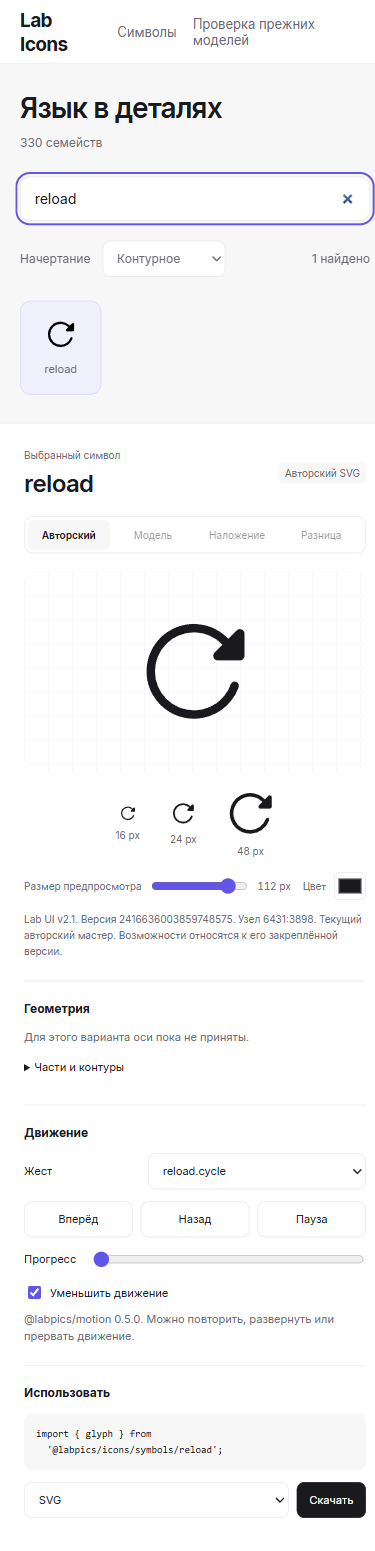
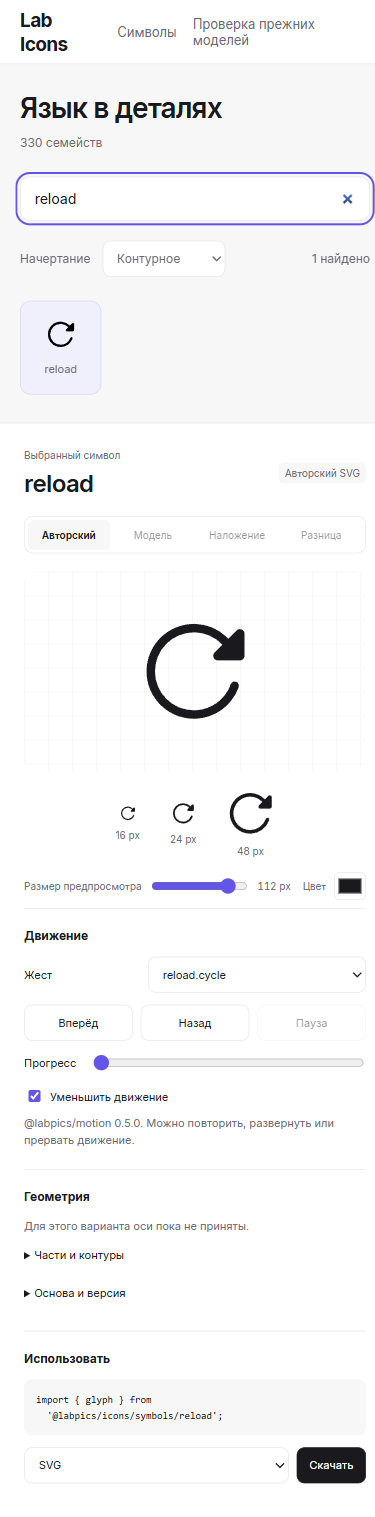
feat(observatory): исполнять typing и loading из авторских частей

diff --git a/observatory/explorer.js b/observatory/explorer.js
@@ -18,6 +18,11 @@ function displayStyle() {
 const $ = (selector) => document.querySelector(selector);
 const ui = Object.fromEntries(['symbol-search', 'variant', 'symbol-grid', 'more-symbols', 'empty-search', 'corpus-count', 'visible-count', 'symbol-inspector', 'symbol-name', 'model-status', 'symbol-stage', 'size-samples', 'source-status', 'axis-controls', 'axis-status', 'parts', 'gesture', 'play', 'reverse', 'pause', 'progress', 'reduce-motion', 'motion-status', 'consumer-import', 'export-format', 'export', 'export-status'].map((id) => [id, $(`#${id}`)]));
 const reducedPreference = matchMedia('(prefers-reduced-motion: reduce)');
+const loadStatus = document.querySelector('#load-status');
+function loadMessage(message = '') {
+  loadStatus.textContent = message;
+  loadStatus.hidden = !message;
+}
 const state = { data: null, name: 'time', variant: 'outline', view: 'original', viewLoading: false, limit: 48, revision: 0, viewRevision: 0, motionRevision: 0, pendingMotion: null, loaded: false, legacy: false, modelModule: null, abort: null, module: null, capabilities: null, glyph: null, axes: {}, original: '', effect: null, animations: [], frame: null, playhead: null };
 
 function progress() {
@@ -143,11 +148,13 @@ async function renderView(view = state.view) {
   const row = selectedRow();
   if (!viewAvailable(view, row)) {
     ui['source-status'].textContent = view === 'generated' ? 'Для прежней основы нет принятой модели. Кандидат доступен только для сравнения.' : 'Для этого варианта нет изображения сравнения.';
+    loadMessage(ui['source-status'].textContent);
     return;
   }
   const viewRevision = ++state.viewRevision;
   stop();
   state.viewLoading = true;
+  loadMessage();
   inspectorBusy(true);
   updateMotionControls();
   try {
@@ -205,6 +212,7 @@ async function renderView(view = state.view) {
     updateViewControls();
     updateMotionControls();
     ui['source-status'].textContent = error.message;
+    loadMessage(error.message);
   }
 }
 
@@ -272,6 +280,7 @@ async function select(name, { reveal = false } = {}) {
   ui['symbol-name'].textContent = name;
   ui['symbol-stage'].setAttribute('aria-label', `Символ ${name}: ${state.variant === 'filled' ? 'заливка' : 'контурное начертание'}`);
   ui['export-status'].textContent = '';
+  loadMessage();
   ui.progress.value = '0';
   clearInspector('Загрузка…');
   inspectorBusy(true);
@@ -306,6 +315,7 @@ async function select(name, { reveal = false } = {}) {
     inspectorBusy(false);
     ui['symbol-stage'].textContent = 'Не удалось загрузить символ.';
     ui['source-status'].textContent = error.message;
+    loadMessage(error.message);
   }
 }
 
@@ -318,7 +328,7 @@ async function advance(to, { repeatCycle = false } = {}) {
   const revision = state.revision;
   const viewRevision = state.viewRevision;
   const motionRevision = ++state.motionRevision;
-  const pending = { paused: false };
+  const pending = { paused: false, to };
   state.pendingMotion = pending;
   updateMotionControls();
   // Новый полный оборот — отдельное намерение пользователя. Ретаргет
@@ -367,6 +377,7 @@ displaySize.addEventListener('input', displayStyle);
 displayColor.addEventListener('input', displayStyle);
 ui.variant.addEventListener('change', () => select(state.name));
 ui['more-symbols'].addEventListener('click', () => { state.limit += 48; grid(); });
+ui.gesture.addEventListener('change', updateMotionControls);
 for (const button of document.querySelectorAll('[data-view]')) button.addEventListener('click', () => renderView(button.dataset.view));
 ui.play.addEventListener('click', () => advance(1, { repeatCycle: true }));
 ui.reverse.addEventListener('click', () => advance(0));
@@ -408,8 +419,12 @@ ui.progress.addEventListener('input', async () => {
   }
 });
 ui['reduce-motion'].checked = reducedPreference.matches;
-ui['reduce-motion'].addEventListener('change', () => { if (state.effect && ui['reduce-motion'].checked) advance(state.effect.to); });
-reducedPreference.addEventListener('change', () => { ui['reduce-motion'].checked = reducedPreference.matches; if (state.effect && reducedPreference.matches) advance(state.effect.to); });
+function reduceCurrentMotion() {
+  const target = state.pendingMotion?.to ?? state.effect?.to;
+  if (target !== undefined) advance(target);
+}
+ui['reduce-motion'].addEventListener('change', () => { if (ui['reduce-motion'].checked) reduceCurrentMotion(); });
+reducedPreference.addEventListener('change', () => { ui['reduce-motion'].checked = reducedPreference.matches; if (reducedPreference.matches) reduceCurrentMotion(); });
 ui.export.addEventListener('click', () => {
   if (!state.loaded || state.viewLoading) return;
   const format = ui['export-format'].value;
@@ -444,4 +459,5 @@ try {
   ui['symbol-grid'].textContent = `Библиотека недоступна: ${error.message}`;
   ui['symbol-stage'].textContent = 'Библиотека недоступна.';
   ui['source-status'].textContent = error.message;
+  loadMessage(error.message);
 }

diff --git a/scripts/bench/explorer-journey.js b/scripts/bench/explorer-journey.js
@@ -176,6 +176,7 @@ export async function runExplorerJourney() {
     await choose('refresh', 'outline');
     check('failed-selection-clears-old-projection', q('consumer-import').textContent === '' &&
       q('size-samples').children.length === 0 && q('parts').children.length === 0 && q('export').disabled);
+    check('failed-selection-visible-status', !q('load-status').hidden && q('load-status').textContent.includes('controlled selection failure'));
     window.fetch = originalFetch;
     await choose('reload', 'outline');
     window.fetch = (url, ...args) => String(url).includes('originals/refresh/outline.svg')
@@ -189,6 +190,7 @@ export async function runExplorerJourney() {
     for (let index = 0; index < 3; index++) await frame();
     check('late-failure-keeps-new-selection', q('symbol-name').textContent === 'reload' &&
       q('consumer-import').textContent.includes('/symbols/reload') && q('source-status').textContent === status && !q('play').disabled);
+    check('late-failure-keeps-new-visible-status', q('load-status').hidden);
     window.fetch = originalFetch;
 
     const { glyph, glyphCapabilities } = await import('./package/symbols/reload.js');
@@ -213,6 +215,52 @@ export async function runExplorerJourney() {
     controls.forEach(control => control.stop());
     fixture.remove();
     check('fixture-cleanup', !document.body.contains(fixture));
+
+    for (const [name, variant] of [['ellipsis-horizontal', 'outline'], ['ellipsis-horizontal', 'filled'], ['chatbubble-ellipses', 'outline']]) {
+      await choose(name, variant);
+      const row = data.rows.find(item => item.name === name && item.variant === variant);
+      const masterResponse = await originalFetch(row.views.master);
+      const master = new DOMParser().parseFromString(await masterResponse.text(), 'image/svg+xml').documentElement;
+      const stage = q('symbol-stage');
+      check(`${name}/${variant}/triad-authored-paths`, JSON.stringify(paths(stage.querySelector('svg'))) === JSON.stringify(paths(master)));
+      const parts = [...stage.querySelectorAll('[data-part]')];
+      const dots = parts.filter(part => part.dataset.role === 'content');
+      const shell = parts.find(part => part.dataset.role === 'container');
+      const shellBefore = shell?.outerHTML;
+      check(`${name}/${variant}/triad-stable-ids`, dots.map(part => part.dataset.part).join(',') === 'dot-leading,dot-middle,dot-trailing');
+      const symbol = await import(`./package/symbols/${name}.js`);
+      const glyph = symbol.glyph({ variant });
+      const caps = symbol.glyphCapabilities(variant);
+      const activity = compileSymbolEffect(glyph, caps, `${name}.activity`, { duration: 900, from: 0.6, to: 0 });
+      check(`${name}/${variant}/triad-public-effect`, activity.ok && activity.effect.version === 2 && activity.effect.stages.every(item => item.property === 'opacity' && item.at >= 0 && item.duration >= 0));
+      setReduced(false);
+      await setProgress(0);
+      q('play').click();
+      await wait(() => Number(q('progress').value) > 0.12 && Number(q('progress').value) < 0.7, 'triad active phase');
+      q('pause').click();
+      const opacity = () => dots.map(dot => Number(getComputedStyle(dot).opacity));
+      const before = opacity();
+      for (let count = 0; count < 8; count++) await frame();
+      check(`${name}/${variant}/triad-pause`, before.every((value, index) => value === opacity()[index]));
+      check(`${name}/${variant}/triad-semantic-emphasis`, before.some(value => value < 0.8) && new Set(before).size > 1);
+      q('reverse').click();
+      await Promise.resolve();
+      await Promise.resolve();
+      const after = opacity();
+      check(`${name}/${variant}/triad-reverse-admission`, before.every((value, index) => Math.abs(value - after[index]) < 0.000001), { before, after });
+      if (shell) check(`${name}/${variant}/unchanged-enclosure`, shell.outerHTML === shellBefore);
+      q('gesture').value = `${name}.idle`;
+      q('gesture').dispatchEvent(new Event('change', { bubbles: true }));
+      q('play').click();
+      setReduced(true);
+      await wait(() => Number(q('progress').value) === 1 && opacity().every(value => value === 1), 'idle terminal');
+      check(`${name}/${variant}/idle-restores-master`, opacity().every(value => value === 1) && (!shell || shell.outerHTML === shellBefore));
+      check(`${name}/${variant}/triad-paths-unchanged-after-motion`, JSON.stringify(paths(stage.querySelector('svg'))) === JSON.stringify(paths(master)));
+    }
+    await choose('chatbubble-ellipses', 'filled');
+    check('filled-typing-compound-refuses', q('play').disabled && q('gesture').value === '');
+    await choose('ellipsis-vertical', 'outline');
+    check('vertical-menu-does-not-inherit-loading', q('play').disabled && q('gesture').value === '');
 
     await choose('time', 'outline');
     check('latest-clock-motion-refuses', q('play').disabled && q('gesture').value === '');

diff --git a/observatory/index.html b/observatory/index.html
@@ -24,9 +24,9 @@
       <div id="symbol-stage" class="symbol-stage" role="img" aria-label="Предпросмотр выбранного символа" aria-busy="true"></div>
       <div class="size-samples" id="size-samples" aria-label="Символ на размерах 16, 24 и 48 пикселей"></div>
       <div class="display-controls"><label>Размер предпросмотра<input id="display-size" type="range" min="16" max="128" value="112"><output id="display-size-value">112 px</output></label><label>Цвет<input id="display-color" type="color" value="#19191e"></label></div>
-      <p id="source-status" class="source-status" role="status"></p>
-      <section class="inspector-section" aria-labelledby="geometry-title"><h3 id="geometry-title">Геометрия</h3><div id="axis-controls"></div><p id="axis-status"></p><details><summary>Части и контуры</summary><ul id="parts"></ul></details></section>
+      <p id="load-status" class="load-status" role="status" hidden></p>
       <section class="inspector-section" aria-labelledby="gesture-title"><h3 id="gesture-title">Движение</h3><label class="field">Жест<select id="gesture" disabled></select></label><div class="playback"><button id="play" type="button" disabled>Вперёд</button><button id="reverse" type="button" disabled>Назад</button><button id="pause" type="button" disabled>Пауза</button></div><label class="scrub"><span>Прогресс</span><input id="progress" type="range" min="0" max="1" step="0.001" value="0" disabled></label><label class="check"><input id="reduce-motion" type="checkbox">Уменьшить движение</label><p id="motion-status" aria-live="polite"></p></section>
+      <section class="inspector-section" aria-labelledby="geometry-title"><h3 id="geometry-title">Геометрия</h3><div id="axis-controls"></div><p id="axis-status"></p><details><summary>Части и контуры</summary><ul id="parts"></ul></details><details><summary>Основа и версия</summary><p id="source-status" class="source-status" role="status"></p></details></section>
       <section class="inspector-section" aria-labelledby="export-title"><h3 id="export-title">Использовать</h3><code id="consumer-import"></code><div class="export-controls"><select id="export-format" aria-label="Формат экспорта"><option value="svg">SVG</option><option value="effect">Данные эффекта</option><option value="lottie">Lottie</option><option value="sf-symbols">SF Symbols</option></select><button id="export" type="button" disabled>Скачать</button></div><p id="export-status" aria-live="polite"></p></section>
     </aside>
   </main>

diff --git a/observatory/motion-execution.js b/observatory/motion-execution.js
@@ -1,4 +1,4 @@
-import { animate } from '@labpics/motion';
+import { animate, sequence } from '@labpics/motion';
 
 /** Consumer передаёт значения публичному исполнителю; clock и поза принадлежат ему. */
 export function executeSymbolEffect(root, effect, { initialize = false } = {}) {
@@ -9,6 +9,14 @@ export function executeSymbolEffect(root, effect, { initialize = false } = {}) {
   const controls = [];
   try {
     Object.assign(viewport.style, effect.viewport);
+    if (effect.version === 2) {
+      controls.push(sequence(effect.stages.map(stage => [
+        byPart.get(stage.partId), { opacity: stage.to },
+        { at: stage.at, duration: stage.duration, ease: effect.options.easing },
+      ]), { reducedMotion: effect.options.duration === 0 ? 'always' : 'user' }));
+      return controls;
+    }
+    if (effect.version !== 1) throw new Error('Версия эффекта не поддержана исполнителем.');
     for (const target of effect.targets) {
       const element = byPart.get(target.partId);
       Object.assign(element.style, target.style);

diff --git a/observatory/explorer.css b/observatory/explorer.css
@@ -6,3 +6,5 @@
 .symbol-stage .difference-original{color:var(--red)}.symbol-stage .difference-candidate{color:var(--blue)}
 @media(min-width:721px){body{height:100svh;overflow:hidden}.workspace{height:calc(100svh - 64px);min-height:0}.library{overflow:auto}.inspector{position:static;height:100%;max-height:none;align-self:stretch}}
 .display-controls{display:flex;align-items:center;gap:12px;margin:14px 0 8px;font-size:10px;color:var(--muted)}.display-controls label{display:flex;align-items:center;gap:8px}.display-controls label:first-child{flex-wrap:wrap;flex:1}.display-controls input[type=range]{width:80px;flex:1;accent-color:var(--accent)}.display-controls input[type=color]{width:32px;height:28px;padding:2px;border:1px solid var(--line);background:transparent;border-radius:6px}.display-controls output{font-variant-numeric:tabular-nums}
+.selection-heading>div{min-width:0}.selection-heading h2{overflow-wrap:anywhere}.inspector-section .source-status{margin-bottom:0}
+.status{white-space:nowrap;flex-shrink:0}.load-status{font-size:12px;color:var(--red);margin:12px 0}

diff --git a/docs/evidence/author-motion-20261101.md b/docs/evidence/author-motion-20261101.md
@@ -13,7 +13,7 @@
 проекция оставалась source-only. Упаковка всего проекта локально не выполнялась.
 
 - Windows, Chrome `156.0.0.0`; публичный `@labpics/motion@0.5.0`.
-- `runExplorerJourney()` прошёл **77 из 77** проверок: независимые master paths,
+- `runExplorerJourney()` прошёл **106 из 106** проверок: независимые master paths,
   receipts, controls, SVG/effect export, отказы Lottie/SF, клавиатурный focus,
   ошибки текущей и устаревшей загрузки, независимые Filled instances и cleanup.
 - Пауза фиксирует позу и индикатор. На границе reverse admission:
@@ -44,3 +44,30 @@ Packed runtime/type consumer проверяется отдельно этим ж
 На момент записи self-hosted jobs находятся в очереди. Полный build, packed
 consumer, performance comparison и merge этого среза **ещё не подтверждены**.
 Функциональный preview не задаёт чисел производительности или publication claim.
+
+## Loading и typing
+
+Core `e05b25a0901c8fbfd7e6f5240974dca94a9b597d` добавляет один закон
+`activity.triad` для трёх вариантов: `ellipsis-horizontal/outline`,
+`ellipsis-horizontal/filled`, `chatbubble-ellipses/outline`. Последний сохраняет
+неподвижную авторскую оболочку. Аннотации всех семи motion-вариантов проверены
+отдельно от конструктивного и axis admission.
+
+V2 effect содержит scalar opacity stages в миллисекундах. Consumer передаёт их
+публичному `sequence` Lab Motion; последний владеет часами и текущей позой.
+Движение не изменяет `d`, fill-rule или порядок. Paused→reverse admission сохранил
+точные opacity трёх частей во всех трёх browser cases; idle вернул opacity `1`.
+Filled chatbubble с одним compound path и вертикальное меню остаются без жеста.
+
+Короткая materialization расширена до четырёх семейств / восьми вариантов,
+остальная source-only preview проекция сохранена. Journey обнаружил RED: reduced
+motion после нового ожидающего idle использовал старую reverse-цель. Исправленный
+UI берёт последнюю pending-цель. Проверки idle+reduced и видимых ошибок загрузки
+входят в 106 checks. Управление движением расположено рядом с preview; точные
+file/node/version доступны в «Основа и версия».
+
+[Рендер typing с неподвижной оболочкой](author-triad-20261101.png) снят при
+viewport 1440×960. Core targeted suite: 95 tests / 6 files и typecheck прошли.
+Два изолированных core review прошли; локальный full build/pack/benchmark не
+выполнялся. Browser evidence относится к source preview, installed chain остаётся
+за удалённым self-hosted lane.
